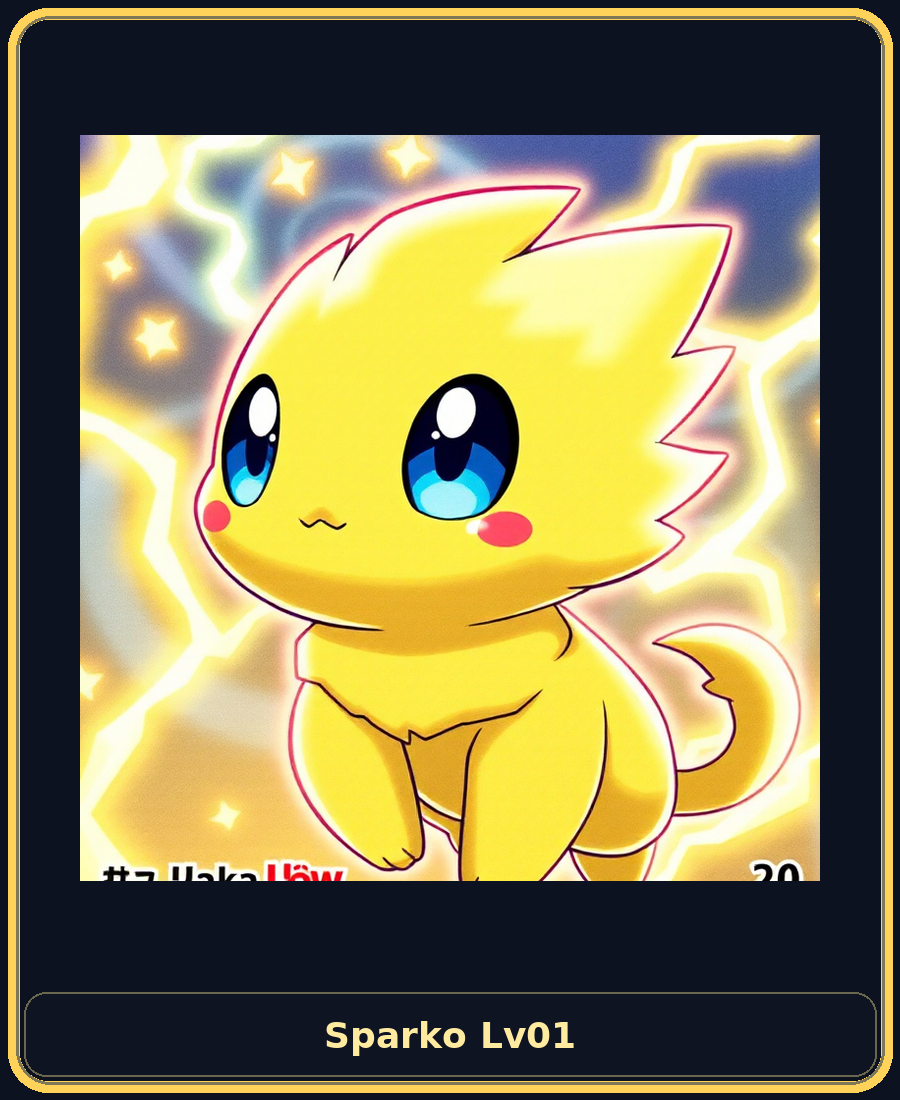
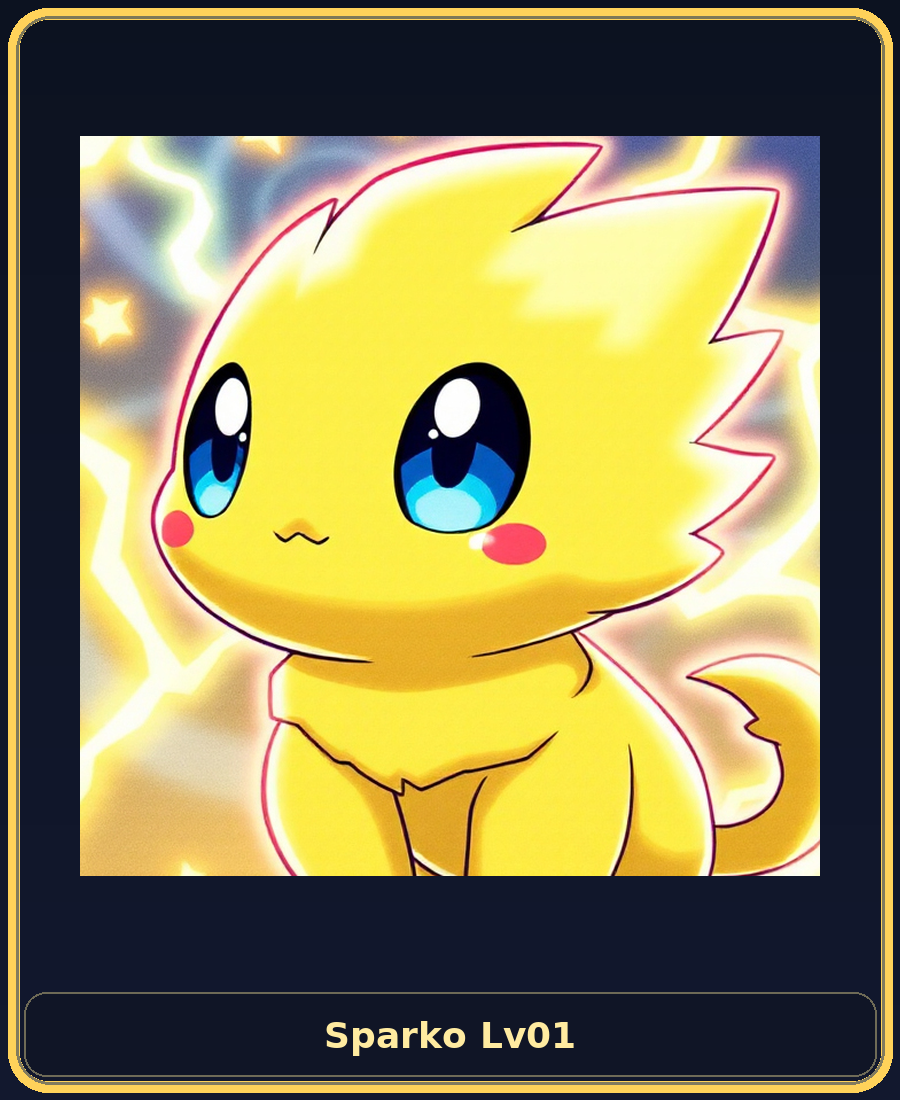
Add files via upload

diff --git a/src/styles.css b/src/styles.css
@@ -1,101 +1,10 @@
-
-:root{
-  --bg:#0b1222; --card:#0f1a33; --txt:#e8f0ff;
-}
-*{box-sizing:border-box}
-body, #root, .page{min-height:100vh}
-.page{background:var(--bg); color:var(--txt); font-family:system-ui,Segoe UI,Roboto,Arial,sans-serif; padding:24px}
-.head{display:flex; align-items:baseline; justify-content:space-between; gap:12px; flex-wrap:wrap}
-h1{font-size:22px;margin:0}
-.sub{opacity:.8; font-size:13px}
-.grid{display:grid; grid-template-columns:repeat(auto-fill,minmax(220px,1fr)); gap:16px; align-items:stretch}
-
-.card{
-  position:relative; background:var(--card); border-radius:20px; padding:12px; overflow:hidden;
-  box-shadow:0 10px 24px rgba(0,0,0,.28);
-  isolation:isolate;
-}
-.char{width:100%; height:auto; display:block; border-radius:14px; position:relative; z-index:2;
-  animation:floaty 6s ease-in-out infinite;
-}
-.label{position:absolute; right:10px; top:10px; background:rgba(0,0,0,.45); border:1px solid rgba(255,255,255,.25);
-       color:#fff; font-size:12px; padding:4px 8px; border-radius:999px; z-index:4}
-
-.fx{position:absolute; inset:0; z-index:1; pointer-events:none}
-.fx-back{filter:blur(28px); animation:pulseGlow 4.2s ease-in-out infinite}
-.fx-front{mix-blend-mode:screen; opacity:.65}
-
-@keyframes pulseGlow { 0%{transform:scale(1); opacity:.8} 50%{transform:scale(1.06); opacity:1} 100%{transform:scale(1); opacity:.8} }
-@keyframes floaty { 0%{transform:translateY(0)} 50%{transform:translateY(-6px)} 100%{transform:translateY(0)} }
-@keyframes flicker { 0%,19%,21%,53%,57%,100%{opacity:1} 20%,54%{opacity:.6} 55%{opacity:.3} }
-@keyframes drift { 0%{transform:translateY(0)} 50%{transform:translateY(-10px)} 100%{transform:translateY(0)} }
-@keyframes ripple { 0%{background-size:120% 120%; opacity:.4} 50%{background-size:140% 140%; opacity:.65} 100%{background-size:120% 120%; opacity:.4} }
-@keyframes twinkle { 0%{opacity:.2} 50%{opacity:.8} 100%{opacity:.2} }
-
-/* Element palettes + effects */
-.card.sparko .fx-back{background:
-  radial-gradient(140px 120px at 58% 48%, rgba(255,236,97,.6), transparent 60%),
-  radial-gradient(220px 160px at 40% 64%, rgba(90,160,255,.4), transparent 70%);
-}
-.card.sparko .fx-front{
-  background-image:
-    repeating-linear-gradient(115deg, rgba(255,255,255,.8) 0 2px, transparent 2px 10px);
-  animation: flicker 2.4s infinite;
-}
-
-.card.embero .fx-back{background:
-  radial-gradient(140px 120px at 58% 48%, rgba(255,130,40,.65), transparent 60%),
-  radial-gradient(220px 160px at 40% 64%, rgba(255,60,48,.45), transparent 70%);
-}
-.card.embero .fx-front{
-  background-image:
-    conic-gradient(from 0deg at 60% 70%, rgba(255,160,90,.35), transparent 40%, rgba(255,80,60,.35) 60%, transparent 80%);
-  animation: drift 5.4s ease-in-out infinite;
-}
-
-.card.aquado .fx-back{background:
-  radial-gradient(140px 140px at 58% 48%, rgba(74,221,255,.55), transparent 60%),
-  radial-gradient(220px 160px at 40% 64%, rgba(0,120,200,.35), transparent 70%);
-}
-.card.aquado .fx-front{
-  background-image:
-    radial-gradient(circle at 40% 60%, rgba(200,240,255,.45) 0 10%, transparent 12% 100%),
-    radial-gradient(circle at 70% 40%, rgba(200,240,255,.35) 0 8%, transparent 10% 100%);
-  animation: ripple 5.6s ease-in-out infinite;
-}
-
-.card.terra .fx-back{background:
-  radial-gradient(160px 140px at 58% 58%, rgba(190,150,100,.55), transparent 60%),
-  radial-gradient(220px 160px at 40% 64%, rgba(110,86,56,.35), transparent 70%);
-}
-.card.terra .fx-front{
-  background-image:
-    radial-gradient(circle at 50% 70%, rgba(140,110,80,.45) 0 6%, transparent 8% 100%),
-    radial-gradient(circle at 60% 65%, rgba(255,215,160,.25) 0 3%, transparent 5% 100%);
-  animation: drift 7s ease-in-out infinite;
-  opacity:.5;
-}
-
-.card.legendary .fx-back{background:
-  radial-gradient(160px 160px at 56% 50%, rgba(243,199,255,.55), transparent 60%),
-  radial-gradient(220px 160px at 44% 62%, rgba(255,185,64,.35), transparent 70%);
-}
-.card.legendary .fx-front{
-  background-image:
-    radial-gradient(circle at 35% 40%, rgba(255,255,255,.9) 0 1px, transparent 2px 100%),
-    radial-gradient(circle at 60% 60%, rgba(255,255,255,.9) 0 1px, transparent 2px 100%),
-    radial-gradient(circle at 70% 30%, rgba(255,255,255,.9) 0 1px, transparent 2px 100%);
-  animation: twinkle 3.6s ease-in-out infinite;
-  background-size: 10px 10px;
-}
-
-.card.ultra .fx-back{background:
-  radial-gradient(180px 160px at 56% 50%, rgba(255,242,84,.7), transparent 60%),
-  radial-gradient(260px 200px at 44% 62%, rgba(255,255,255,.4), transparent 70%);
-}
-.card.ultra .fx-front{
-  background-image:
-    repeating-linear-gradient(115deg, rgba(255,255,255,.9) 0 2px, transparent 2px 12px),
-    repeating-linear-gradient(65deg, rgba(255,236,97,.7) 0 2px, transparent 2px 14px);
-  animation: flicker 1.9s infinite;
-}
+:root{--bg:#0b1222;--card:#0f1a33;--txt:#e8f0ff}
+.page{background:var(--bg);color:var(--txt);font-family:system-ui;padding:24px;min-height:100vh}
+.grid{display:grid;grid-template-columns:repeat(auto-fill,minmax(220px,1fr));gap:16px}
+.card{position:relative;background:var(--card);border-radius:20px;padding:12px;overflow:hidden;box-shadow:0 10px 24px rgba(0,0,0,.28)}
+.char{width:100%;border-radius:14px;animation:floaty 6s ease-in-out infinite;position:relative;z-index:2}
+.label{position:absolute;right:10px;top:10px;background:rgba(0,0,0,.45);border:1px solid rgba(255,255,255,.25);color:#fff;font-size:12px;padding:4px 8px;border-radius:999px;z-index:3}
+.fx{position:absolute;inset:0;z-index:1;pointer-events:none;filter:blur(24px);animation:pulse 4s ease-in-out infinite}
+@keyframes pulse{0%{transform:scale(1);opacity:.8}50%{transform:scale(1.06);opacity:1}100%{transform:scale(1);opacity:.8}}
+@keyframes floaty{0%{transform:translateY(0)}50%{transform:translateY(-4px)}100%{transform:translateY(0)}}
+.sparko .fx{background:radial-gradient(160px 140px at 58% 48%, rgba(255,236,97,.55), transparent 60%),radial-gradient(240px 160px at 40% 64%, rgba(90,160,255,.35), transparent 70%)}

diff --git a/src/App.tsx b/src/App.tsx
@@ -1,59 +1,7 @@
-
-import React from "react";
-import "./styles.css";
-
+import React from "react"; import "./styles.css";
 type Manifest = Record<string, string>;
-const levels = Array.from({ length: 30 }, (_, i) => i + 1);
-
-function raceFor(n: number) {
-  if (n <= 10) return "sparko";       // electric
-  if (n <= 15) return "embero";       // fire
-  if (n <= 20) return "aquado";       // water
-  if (n <= 25) return "terra";        // earth
-  if (n <= 29) return "legendary";    // cosmic
-  return "ultra";                     // final electric
-}
-
-export default function App() {
-  const [manifest, setManifest] = React.useState<Manifest>({});
-
-  React.useEffect(() => {
-    fetch("/avatars_manifest.json")
-      .then((r) => r.json())
-      .then(setManifest)
-      .catch(console.error);
-  }, []);
-
-  return (
-    <div className="page">
-      <header className="head">
-        <h1>POKE TOKEN — Season 1</h1>
-        <div className="sub">Avatars (animated effects, lightweight)</div>
-      </header>
-
-      <div className="grid">
-        {levels.map((n) => {
-          const url = manifest[String(n)];
-          const race = raceFor(n);
-          return (
-            <div key={n} className={`card ${race}`}>
-              {/* Low-cost animated effect layers */}
-              <div className="fx fx-back" aria-hidden />
-              <div className="fx fx-front" aria-hidden />
-
-              <img
-                src={url}
-                alt={`lv${String(n).padStart(2, "0")}`}
-                className="char"
-                loading="lazy"
-                decoding="async"
-                onError={(e) => ((e.target as HTMLImageElement).style.opacity = "0.25")}
-              />
-              <div className="label">lv{String(n).padStart(2, "0")}</div>
-            </div>
-          );
-        })}
-      </div>
-    </div>
-  );
-}
+export default function App(){const [m,setM]=React.useState<Manifest>({});
+React.useEffect(()=>{fetch('/avatars_manifest.json').then(r=>r.json()).then(setM)},[]);
+const url=m["1"]; return <div className='page'><h1>Avatars (preview)</h1>
+<div className='grid'><div className='card sparko'><div className='fx'></div>
+{url && <img className='char' src={url} alt='lv01'/>}<div className='label'>lv01</div></div></div></div>}

diff --git a/public/avatars_test.html b/public/avatars_test.html
@@ -1,21 +1,13 @@
-<!doctype html><meta charset="utf-8"><title>Sparko Lv01 Test</title>
+<!doctype html><meta charset="utf-8"><title>Sparko Lv01 Clean</title>
 <style>
 body{background:#0b1222;color:#fff;font-family:system-ui;padding:24px}
 .card{width:360px;background:#0f1a33;border-radius:16px;padding:12px;position:relative;overflow:hidden}
 .card img{width:100%;border-radius:12px;display:block;position:relative;z-index:2;animation:floaty 6s ease-in-out infinite}
-.fx, .fx2{position:absolute;inset:0;z-index:1;pointer-events:none}
-.fx{filter:blur(24px);animation:pulse 4s ease-in-out infinite;
-    background:radial-gradient(160px 140px at 58% 48%, rgba(255,236,97,.55), transparent 60%),
-               radial-gradient(240px 160px at 40% 64%, rgba(90,160,255,.35), transparent 70%);}
-.fx2{background-image:repeating-linear-gradient(115deg, rgba(255,255,255,.15) 0 2px, transparent 2px 12px);
-     mix-blend-mode:screen; animation:flicker 2.6s infinite; opacity:.65}
+.fx{position:absolute;inset:0;z-index:1;pointer-events:none;filter:blur(24px);animation:pulse 4s ease-in-out infinite;
+background:radial-gradient(160px 140px at 58% 48%, rgba(255,236,97,.55), transparent 60%),
+radial-gradient(240px 160px at 40% 64%, rgba(90,160,255,.35), transparent 70%);}
 @keyframes pulse{0%{transform:scale(1);opacity:.8}50%{transform:scale(1.06);opacity:1}100%{transform:scale(1);opacity:.8}}
 @keyframes floaty{0%{transform:translateY(0)}50%{transform:translateY(-4px)}100%{transform:translateY(0)}}
-@keyframes flicker{0%,19%,21%,53%,57%,100%{opacity:.7}20%,54%{opacity:.4}55%{opacity:.25}}
 </style>
-<h1>Sparko Lv01 (animated effects demo)</h1>
-<div class="card">
-  <div class="fx"></div>
-  <div class="fx2"></div>
-  <img src="/avatars_main/lv01.png" alt="lv01"/>
-</div>
+<h1>Sparko Lv01 (clean, no diagonal stripes)</h1>
+<div class="card"><div class="fx"></div><img src="/avatars_main/lv01.png" alt="lv01"></div>
